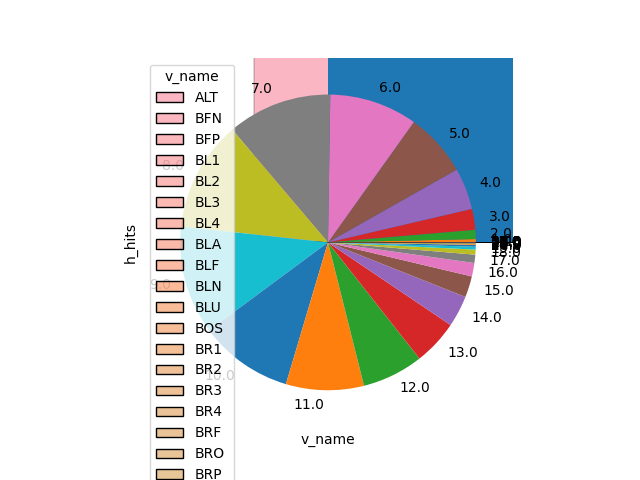
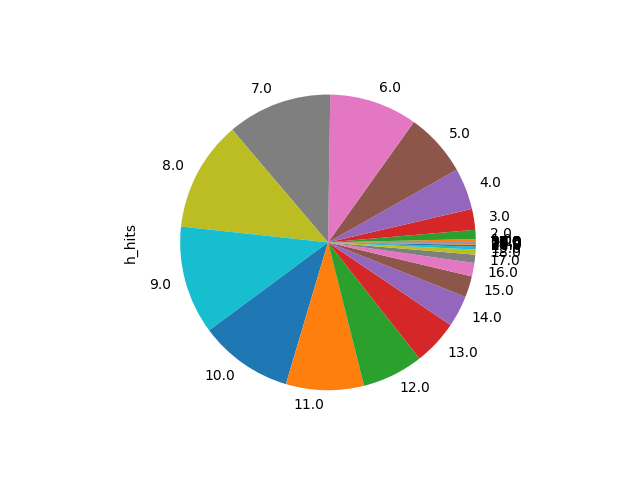
graf_fix

diff --git a/PR6/data5/main_plot.py b/PR6/data5/main_plot.py
@@ -8,10 +8,10 @@ import seaborn as sns
 first = os.path.join(os.path.dirname(__file__), os.path.normpath('df_5.csv'))
 types = os.path.join(os.path.dirname(__file__), os.path.normpath('dtypes_5.json'))
 res_file_diameter = os.path.join(os.path.dirname(__file__), os.path.normpath('diameter.png'))
-res_file_diameter_v1 = os.path.join(os.path.dirname(__file__), os.path.normpath('diameter_v1.png'))
+res_file_class_v1 = os.path.join(os.path.dirname(__file__), os.path.normpath('class_v1.png'))
 res_file_MBA = os.path.join(os.path.dirname(__file__), os.path.normpath('MBA.png'))
-res_file_experience_moid = os.path.join(os.path.dirname(__file__), os.path.normpath('experience_moid .png'))
-res_file_experience_sigma_per = os.path.join(os.path.dirname(__file__), os.path.normpath('experience_sigma_per.png'))
+res_file_experience_albedo = os.path.join(os.path.dirname(__file__), os.path.normpath('experience_albedo.png'))
+res_file_experience_sigma_w = os.path.join(os.path.dirname(__file__), os.path.normpath('experience_sigma_w.png'))
 
 
 pd.set_option("display.max_rows", 20, "display.max_columns", 60)
@@ -39,12 +39,14 @@ dataset.info(memory_usage='deep')
 
 
 dataset['diameter_group'] = (dataset['diameter'] // 10) * 10
-grouped_df = dataset.groupby('diameter_group')['diameter'].mean().reset_index()
-plt.plot(grouped_df['diameter_group'], grouped_df['diameter'])
+grouped_df = dataset.groupby('diameter_group')['diameter_sigma'].mean().reset_index()
+plt.plot(grouped_df['diameter_group'], grouped_df['diameter_sigma'])
 plt.savefig(res_file_diameter)
+plt.close()
 
-plot = sns.histplot(data=grouped_df, x="diameter", hue="diameter", bins=100)
-plot.get_figure().savefig(res_file_diameter_v1)
+plot = sns.histplot(data=dataset, x="class", hue="class", bins=100)
+plot.get_figure().savefig(res_file_class_v1)
+plt.close()
 
 data = dataset[dataset['class'] != 'MBA']
 d2 = data.groupby(['class'])['class'].count()
@@ -52,12 +54,15 @@ d2 = d2[d2 > len(data) * 0.05]
 circ = d2.plot(kind='pie', y=d2.keys(), autopct='%1.0f%%', title='')
 plt.tight_layout()
 circ.get_figure().savefig(res_file_MBA)
+plt.close()
 
-plot = sns.boxplot(data=dataset, x='moid', y='class')
-plot.get_figure().savefig(res_file_experience_moid)
+plot = sns.boxplot(data=dataset, x='albedo', y='class')
+plot.get_figure().savefig(res_file_experience_albedo)
+plt.close()
 
 
 plt.figure(figsize=(15,10))
-plt.plot(dataset.groupby(["sigma_per"])['sigma_w'].sum().values, marker='*', color='green')
-plt.savefig(res_file_experience_sigma_per)
+plt.plot(dataset.sample(1000).groupby(["albedo"])['sigma_w'].sum().values, marker='*', color='green')
+plt.savefig(res_file_experience_sigma_w)
+plt.close()
 

diff --git a/PR6/data6/main_plot.py b/PR6/data6/main_plot.py
@@ -8,10 +8,10 @@ import seaborn as sns
 first = os.path.join(os.path.dirname(__file__), os.path.normpath('df_6.csv'))
 types = os.path.join(os.path.dirname(__file__), os.path.normpath('dtypes_6.json'))
 res_file_Qualifications = os.path.join(os.path.dirname(__file__), os.path.normpath('Qualifications.png'))
-res_file_Role_v1= os.path.join(os.path.dirname(__file__), os.path.normpath('Role_v1.png'))
+res_file_Qualifications_v1= os.path.join(os.path.dirname(__file__), os.path.normpath('Qualifications_v1.png'))
 res_file_Qualifications_longitude= os.path.join(os.path.dirname(__file__), os.path.normpath('Qualifications_longitude.png'))
-res_file_Role = os.path.join(os.path.dirname(__file__), os.path.normpath('Role.png'))
-res_file_Company_Size_Role = os.path.join(os.path.dirname(__file__), os.path.normpath('Company_Size_Role.png'))
+res_file_Preference = os.path.join(os.path.dirname(__file__), os.path.normpath('Preference.png'))
+res_file_Company_Size_Qualifications = os.path.join(os.path.dirname(__file__), os.path.normpath('Company_Size_Qualifications.png'))
 
 
 pd.set_option("display.max_rows", 20, "display.max_columns", 60)
@@ -41,19 +41,24 @@ dataset.info(memory_usage='deep')
 dataset.info(memory_usage='deep')
 
 
-plot = sns.histplot(data=dataset, x="Qualifications", hue="Qualifications", bins=100)
+plot = sns.histplot(data=dataset.sample(1000), x="Qualifications", hue="Qualifications", bins=100)
 plot.get_figure().savefig(res_file_Qualifications)
+plt.close()
 
-plot = dataset['Role'].hist()
-plot.get_figure().savefig(res_file_Role_v1)
+plot = dataset.sample(1000)['Qualifications'].hist()
+plot.get_figure().savefig(res_file_Qualifications_v1)
+plt.close()
 
-d2 = dataset.groupby(['Role'])['Role'].count()
+d2 = dataset.sample(1000).groupby(['Preference'])['Preference'].count()
 circ = d2.plot(kind='pie', y=d2.keys(), autopct='%1.0f%%', title='')
-circ.get_figure().savefig(res_file_Role)
+circ.get_figure().savefig(res_file_Preference)
+plt.close()
 
 plt.figure(figsize=(15,10))
-plt.plot(dataset.groupby(["Qualifications"])['longitude'].sum().values, marker='*', color='green')
+plt.plot(dataset.sample(1000).groupby(["Qualifications"])['longitude'].sum().values, marker='*', color='green')
 plt.savefig(res_file_Qualifications_longitude)
+plt.close()
 
-plot = sns.boxplot(data=dataset, x='Company Size', y='Role')
-plot.get_figure().savefig(res_file_Company_Size_Role)
+plot = sns.boxplot(data=dataset.sample(1000), x='Company Size', y='Qualifications')
+plot.get_figure().savefig(res_file_Company_Size_Qualifications)
+plt.close()

diff --git a/PR6/data1/main_plot.py b/PR6/data1/main_plot.py
@@ -7,11 +7,11 @@ import seaborn as sns
 
 first = os.path.join(os.path.dirname(__file__), os.path.normpath('df.csv'))
 types = os.path.join(os.path.dirname(__file__), os.path.normpath('dtypes.json'))
-res_file_v_name_2 = os.path.join(os.path.dirname(__file__), os.path.normpath('v_name_2.png'))
-res_file_v_name = os.path.join(os.path.dirname(__file__), os.path.normpath('v_name.png'))
+res_file_day_of_week_2 = os.path.join(os.path.dirname(__file__), os.path.normpath('day_of_week_2.png'))
+res_file_day_of_week = os.path.join(os.path.dirname(__file__), os.path.normpath('day_of_week.png'))
 res_file_h_hits = os.path.join(os.path.dirname(__file__), os.path.normpath('number_h_hits.png'))
 res_file_length_minutes_on_h_hits = os.path.join(os.path.dirname(__file__), os.path.normpath('length_minutes_on_h_hits.png'))
-res_file_error_on_h_hits_1 = os.path.join(os.path.dirname(__file__), os.path.normpath('error_on_h_hits_1.png'))
+res_file_error_on_number_of_game_1 = os.path.join(os.path.dirname(__file__), os.path.normpath('error_on_number_of_game.png'))
 
 pd.set_option("display.max_rows", 20, "display.max_columns", 60)
 
@@ -33,19 +33,28 @@ dataset = pd.read_csv(first, usecols=lambda x: x in need_dtypes.keys(),
 
 dataset.info(memory_usage='deep')
 
-plot = sns.histplot(data=dataset, x="v_name", hue="v_name", bins=100)
-plot.get_figure().savefig(res_file_v_name_2)
+plot = sns.histplot(data=dataset, x="day_of_week", hue="day_of_week", bins=100)
+plot.get_figure().savefig(res_file_day_of_week_2)
+plt.close()
 
-plot = dataset['v_name'].hist()
-plot.get_figure().savefig(res_file_v_name)
+
+plot = dataset['day_of_week'].hist()
+plot.get_figure().savefig(res_file_day_of_week)
+plt.close()
+
 
 d2 = dataset.groupby(['h_hits'])['h_hits'].count()
 circ = d2.plot(kind='pie', y=d2.keys())
 circ.get_figure().savefig(res_file_h_hits)
+plt.close()
+
 
 plt.figure(figsize=(30,5))
 plt.plot(dataset.groupby(["v_name"])['h_hits'].sum().values, marker='*', color='green')
 plt.savefig(res_file_length_minutes_on_h_hits)
+plt.close()
 
-plot = sns.boxplot(data=dataset, x='h_hits', y='h_errors')
-plot.get_figure().savefig(res_file_error_on_h_hits_1)
+plot = sns.boxplot(data=dataset, x='number_of_game', y='h_errors')
+plot.get_figure().savefig(res_file_error_on_number_of_game_1)
+plt.close()
+

diff --git a/PR6/data3/main_plot.py b/PR6/data3/main_plot.py
@@ -11,7 +11,7 @@ res_file_AIRLINE = os.path.join(os.path.dirname(__file__), os.path.normpath('AIR
 res_file_DAY_OF_WEEK = os.path.join(os.path.dirname(__file__), os.path.normpath('DAY_OF_WEEK.png'))
 res_file_ORIGIN_AIRPORT = os.path.join(os.path.dirname(__file__), os.path.normpath('ORIGIN_AIRPORT.png'))
 res_file_ORIGIN_AIRPORT_SCHEDULED_TIME = os.path.join(os.path.dirname(__file__), os.path.normpath('ORIGIN_AIRPORT_SCHEDULED_TIME.png'))
-res_file_vf_AIR_TIME_in_YEAR = os.path.join(os.path.dirname(__file__), os.path.normpath('AIR_TIME_in_YEAR.png'))
+res_file_vf_AIR_TIME_in_DAY_OF_WEEK = os.path.join(os.path.dirname(__file__), os.path.normpath('AIR_TIME_in_DAY_OF_WEEK.png'))
 
 pd.set_option("display.max_rows", 20, "display.max_columns", 60)
 
@@ -39,17 +39,23 @@ dataset.info(memory_usage='deep')
 plot = sns.histplot(data=dataset, x="AIRLINE", hue="AIRLINE", bins=100)
 plot.get_figure().savefig(res_file_AIRLINE)
 plt.xticks(rotation=45)
+plt.close()
+
 plot = dataset['DAY_OF_WEEK'].hist()
 plot.get_figure().savefig(res_file_ORIGIN_AIRPORT)
+plt.close()
 
 d2 = dataset.groupby(['DAY_OF_WEEK'])['DAY_OF_WEEK'].count()
 circ = d2.plot(kind='pie', y=d2.keys(), autopct='%1.0f%%', title='')
 circ.get_figure().savefig(res_file_DAY_OF_WEEK)
+plt.close()
 
 plt.figure(figsize=(15,10))
 plt.plot(dataset.groupby(["ORIGIN_AIRPORT"])['SCHEDULED_TIME'].sum().values, marker='*', color='green')
 plt.savefig(res_file_ORIGIN_AIRPORT_SCHEDULED_TIME)
+plt.close()
 
-plot = sns.boxplot(data=dataset, x='DAY_OF_WEEK', y='AIR_TIME')
-plot.get_figure().savefig(res_file_vf_AIR_TIME_in_YEAR)
+plot = sns.boxplot(data=dataset.sample(1000), x='DAY_OF_WEEK', y='AIR_TIME')
+plot.get_figure().savefig(res_file_vf_AIR_TIME_in_DAY_OF_WEEK)
+plt.close()
 

diff --git a/PR6/data4/main_plot.py b/PR6/data4/main_plot.py
@@ -40,17 +40,22 @@ dataset.info(memory_usage='deep')
 
 plot = sns.histplot(data=dataset, x="schedule_name", hue="schedule_name", bins=100)
 plot.get_figure().savefig(res_file_schedule_name)
+plt.close()
 
 plot = dataset['experience_name'].hist()
 plot.get_figure().savefig(res_file_experience_name_v1)
+plt.close()
 
 d2 = dataset.groupby(['experience_name'])['experience_name'].count()
 circ = d2.plot(kind='pie', y=d2.keys(), autopct='%1.0f%%', title='')
 circ.get_figure().savefig(res_file_experience_name)
+plt.close()
 
 plt.figure(figsize=(15,10))
 plt.plot(dataset.groupby(["experience_name"])['salary_from'].sum().values, marker='*', color='green')
 plt.savefig(res_file_experience_name_salary_from)
+plt.close()
 
-plot = sns.boxplot(data=dataset, x='salary_from', y='experience_name')
+plot = sns.boxplot(data=dataset.sample(1000), x='salary_from', y='experience_name')
 plot.get_figure().savefig(res_file_salary_from_experience_name)
+plt.close()
